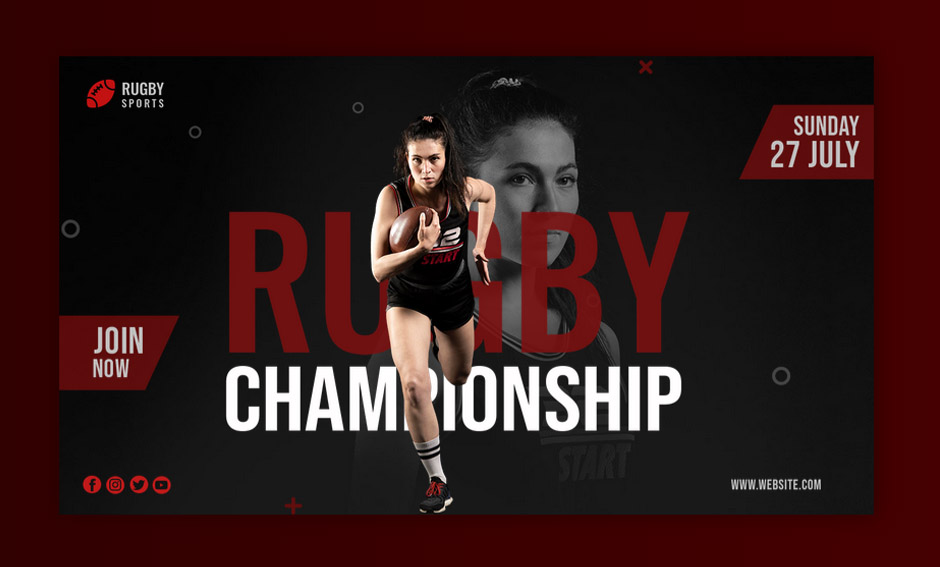
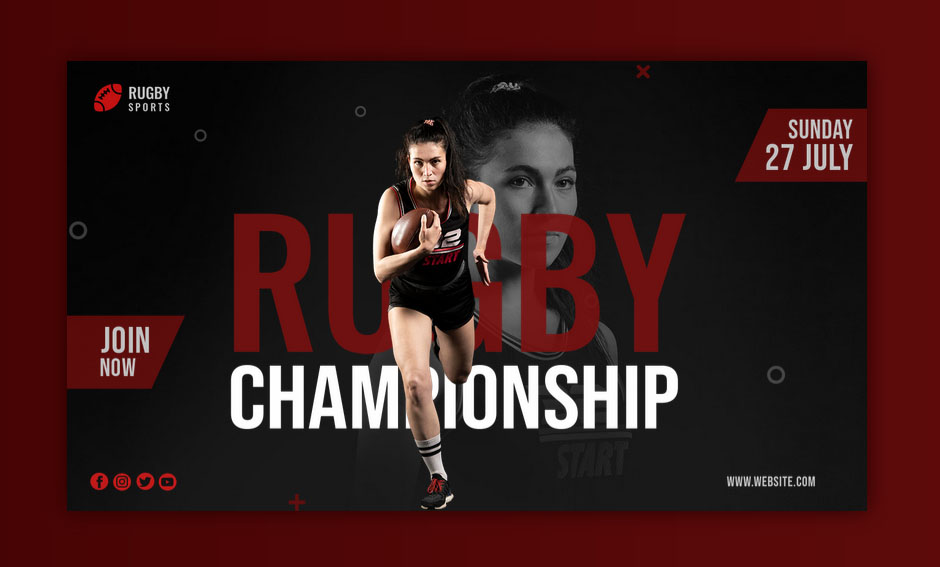
works

diff --git a/index.html b/index.html
@@ -334,74 +334,40 @@
 		<section id="works" class="module">
 
 			<div class="container">
-
+				
 				<div class="row">
 					<div class="col-sm-6 col-sm-offset-3">
-
+						
 						<h2 class="module-title font-alt">Algunos de mis trabajos</h2>
-
+						
 					</div>
-
-
+					
+					
 					<div class="col-sm-12">
-
+						
 						<ul id="filters" class="filter font-alt hidden-xs">
 							<li><a href="#" data-filter="*" class="current wow fadeInUp">All</a></li>
-							<!-- <li><a href="#" data-filter=".illustration" class="wow fadeInUp" data-wow-delay="0.2s">Illustration</a></li>
-							<li><a href="#" data-filter=".marketing" class="wow fadeInUp" data-wow-delay="0.4s">Marketing</a></li> -->
-							<li><a href="#" data-filter=".psd-to-code" class="wow fadeInUp" data-wow-delay="0.2s">Psd-to-Code</a></li>
-							<li><a href="#" data-filter=".marketing" class="wow fadeInUp" data-wow-delay="0.4s">Marketing</a></li>
-							<li><a href="#" data-filter=".photography" class="wow fadeInUp" data-wow-delay="0.6s">Photography</a></li>
-							<li><a href="#" data-filter=".webdesign" class="wow fadeInUp" data-wow-delay="0.8s">Web Design</a></li>
+							<li><a href="#" data-filter=".psd-to-code">Psd-to-Code</a></li>
+							<li><a href="#" data-filter=".parallax-effect">Parallax</a></li>
+							<li><a href="#" data-filter=".design-and-code">Design-and-Code</a></li>
+							<!-- <li><a href="#" data-filter=".code">Code</a></li> -->
 						</ul>
-
+						
 					</div>
-
+					
 				</div><!-- .row -->
-
+				
 				<!-- Portfolio list start -->
 				<ul id="works-grid" class="works-grid works-grid works-hover-w">
 
 					<!-- Portfolio item start -->
-					<li class="work-item psd-to-code illustration webdesign" >
-						<a href="https://marcosbort.github.io/layout-restaurant-01" target="_blank">
+					<li class="work-item psd-to-code parallax-effect" >
+						<a href="https://marcosbort.github.io/rugby-banner-3d" target="_blank">
 							<div class="work-image">
-								<img src="assets/images/work-1a.jpg" alt="work image">
+								<img src="assets/images/work-6g.jpg" alt="work image">
 							</div>
 							<div class="work-caption font-alt">
-								<h3 class="work-title">PSD to Responsive Code</h3>
-								<div class="work-descr">
-									320 - 370 - 412 - 444 - 768 - 1024 - 1280 - 1920
-								</div>
-							</div>
-						</a>
-					</li>
-					<!-- Portfolio item end -->
-					
-					<!-- Portfolio item start -->
-					<li class="work-item psd-to-code marketing photography" >
-						<a href="https://marcosbort.github.io/layout_02" target="_blank">
-							<div class="work-image">
-								<img src="assets/images/work-2c.jpg" alt="work image">
-							</div>
-							<div class="work-caption font-alt">
-								<h3 class="work-title">PSD to Code Full responsive</h3>
-								<div class="work-descr">
-									320 to infinite
-								</div>
-							</div>
-						</a>
-					</li>
-					<!-- Portfolio item end -->
-
-					<!-- Portfolio item start -->
-					<li class="work-item illustration photography" >
-						<a href="https://marcosbort.github.io/hover-card-3d" target="_blank">
-							<div class="work-image">
-								<img src="assets/images/work-3c.jpg" alt="work image">
-							</div>
-							<div class="work-caption font-alt">
-								<h3 class="work-title">Card 3D</h3>
+								<h3 class="work-title">Rugby Banner 3D</h3>
 								<div class="work-descr">
 									Animation Hover
 								</div>
@@ -409,9 +375,25 @@
 						</a>
 					</li>
 					<!-- Portfolio item end -->
+					
+					<!-- Portfolio item start -->
+					<li class="work-item design-and-code" >
+						<a href="https://marcosbort.github.io/marvel-carousel" target="_blank">
+							<div class="work-image">
+								<img src="assets/images/work-5e.jpg" alt="work image">
+							</div>
+							<div class="work-caption font-alt">
+								<h3 class="work-title">Carouse Marvel Cards</h3>
+								<div class="work-descr">
+									Design and Code
+								</div>
+							</div>
+						</a>
+					</li>
+					<!-- Portfolio item end -->
 
 					<!-- Portfolio item start -->
-					<li class="work-item psd-to-code marketing photography" >
+					<li class="work-item psd-to-code " >
 						<a href="https://marcosbort.github.io/gym-banner-01" target="_blank">
 							<div class="work-image">
 								<img src="assets/images/work-4d.jpg" alt="work image">
@@ -427,29 +409,13 @@
 					<!-- Portfolio item end -->
 
 					<!-- Portfolio item start -->
-					<li class="work-item illustration webdesign" >
-						<a href="#">
+					<li class="work-item parallax-effect design-and-code" >
+						<a href="https://marcosbort.github.io/hover-card-3d" target="_blank">
 							<div class="work-image">
-								<img src="assets/images/work-5f.jpg" alt="work image">
+								<img src="assets/images/work-3c.jpg" alt="work image">
 							</div>
 							<div class="work-caption font-alt">
-								<h3 class="work-title">Working</h3>
-								<div class="work-descr">
-									Advance Parallax
-								</div>
-							</div>
-						</a>
-					</li>
-					<!-- Portfolio item end -->
-
-					<!-- Portfolio item start -->
-					<li class="work-item marketing webdesign" >
-						<a href="https://marcosbort.github.io/rugby-banner-3d" target="_blank">
-							<div class="work-image">
-								<img src="assets/images/work-6g.jpg" alt="work image">
-							</div>
-							<div class="work-caption font-alt">
-								<h3 class="work-title">Rugby Banner 3D</h3>
+								<h3 class="work-title">Card 3D</h3>
 								<div class="work-descr">
 									Animation Hover
 								</div>
@@ -457,6 +423,39 @@
 						</a>
 					</li>
 					<!-- Portfolio item end -->
+
+					<!-- Portfolio item start -->
+					<li class="work-item psd-to-code " >
+						<a href="https://marcosbort.github.io/layout-restaurant-01" target="_blank">
+							<div class="work-image">
+								<img src="assets/images/work-1a.jpg" alt="work image">
+							</div>
+							<div class="work-caption font-alt">
+								<h3 class="work-title">PSD to Responsive Code</h3>
+								<div class="work-descr">
+									320 - 370 - 412 - 444 - 768 - 1024 - 1280 - 1920
+								</div>
+							</div>
+						</a>
+					</li>
+					<!-- Portfolio item end -->
+					
+					<!-- Portfolio item start -->
+					<li class="work-item psd-to-code " >
+						<a href="https://marcosbort.github.io/layout_02" target="_blank">
+							<div class="work-image">
+								<img src="assets/images/work-2c.jpg" alt="work image">
+							</div>
+							<div class="work-caption font-alt">
+								<h3 class="work-title">PSD to Code Full responsive</h3>
+								<div class="work-descr">
+									320 to infinite
+								</div>
+							</div>
+						</a>
+					</li>
+					<!-- Portfolio item end -->
+					
 
 				</ul>
 				<!-- Portfolio list end -->

diff --git a/assets/css/style.css b/assets/css/style.css
@@ -60,11 +60,11 @@ iframe {
 ------------------------------------------------------------------- */
 
 .icon-tech {
-	width: 115px;
+	width: 100px;
 }
 
 .icon-tech-design {
-	width: 110px;
+	width: 98px;
 }
 
 video{
@@ -736,7 +736,7 @@ Navbar
 	font-family: "Roboto Condensed", sans-serif;
 	text-transform: uppercase;
 	letter-spacing: 3px;
-	font-size: 11px;
+	font-size: 12px;
 	-webkit-transition: background, padding 0.4s ease-in-out 0s;
 	   -moz-transition: background, padding 0.4s ease-in-out 0s;
 		-ms-transition: background, padding 0.4s ease-in-out 0s;
@@ -959,7 +959,7 @@ Sections
 .module,
 .module-small {
 	position: relative;
-	padding: 65px 0 80px 0;
+	padding: 50px 0 80px 0;
 	background-repeat: no-repeat;
 	background-position: 50% 50%;
 	-webkit-background-size: cover;
@@ -2580,14 +2580,14 @@ Vertival margin, padding
 @media (min-width:768px) {
 	.container {
 	 /* width:750px; */
-	 width:700px !important;
+	 width:720px !important;
 	}
 	
 }
 @media (min-width:992px) {
 .container {
 	/* width:970px */
-	width:920px !important;
+	width:940px !important;
 	}
 }
 @media (min-width:1200px) {
